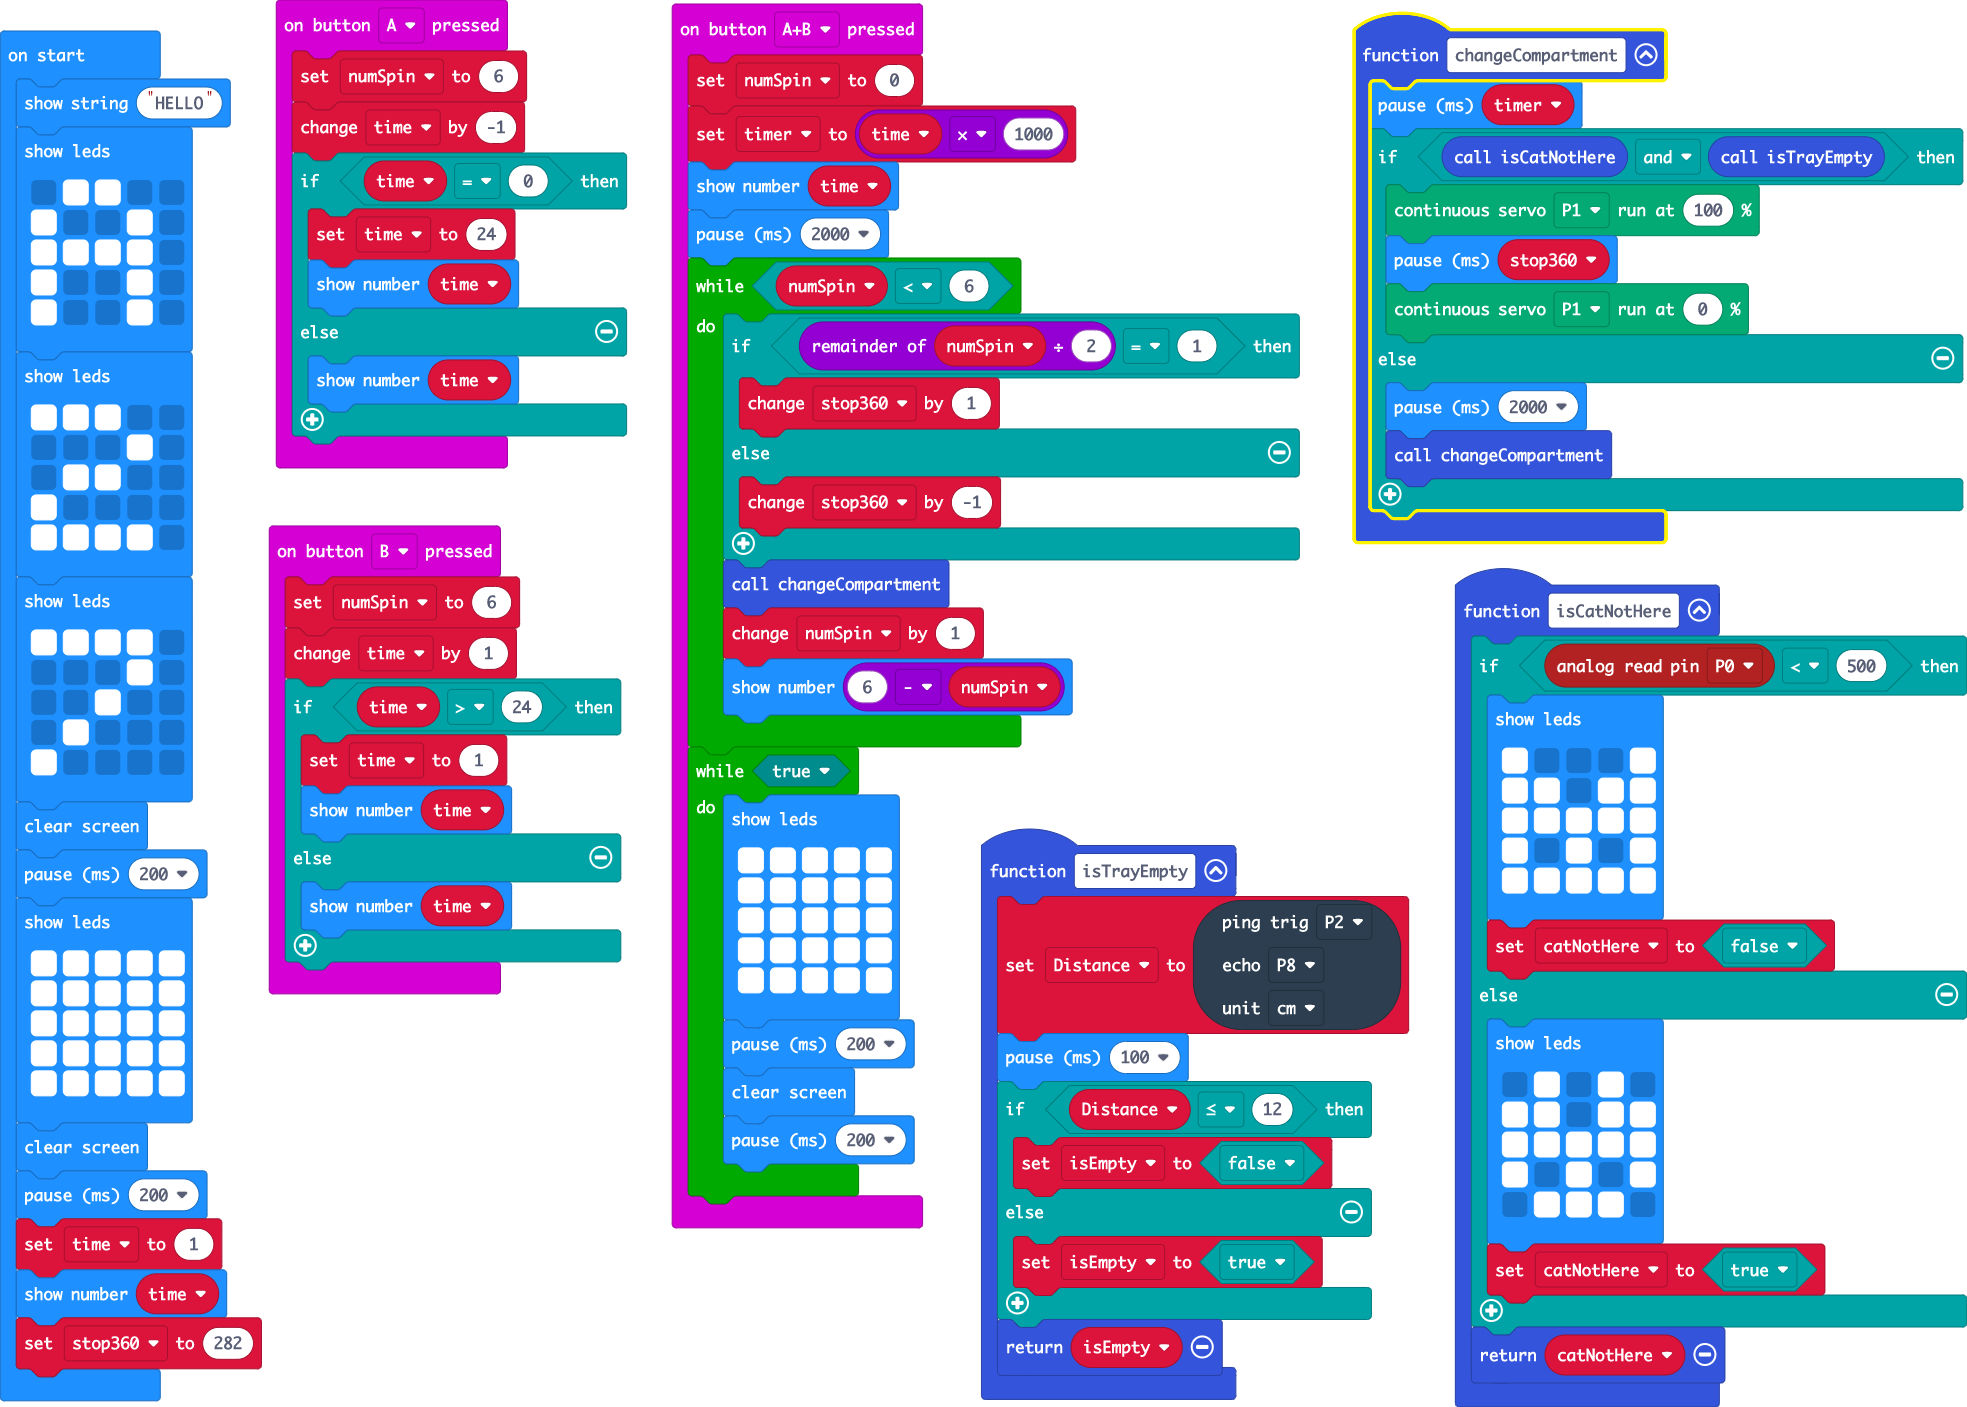
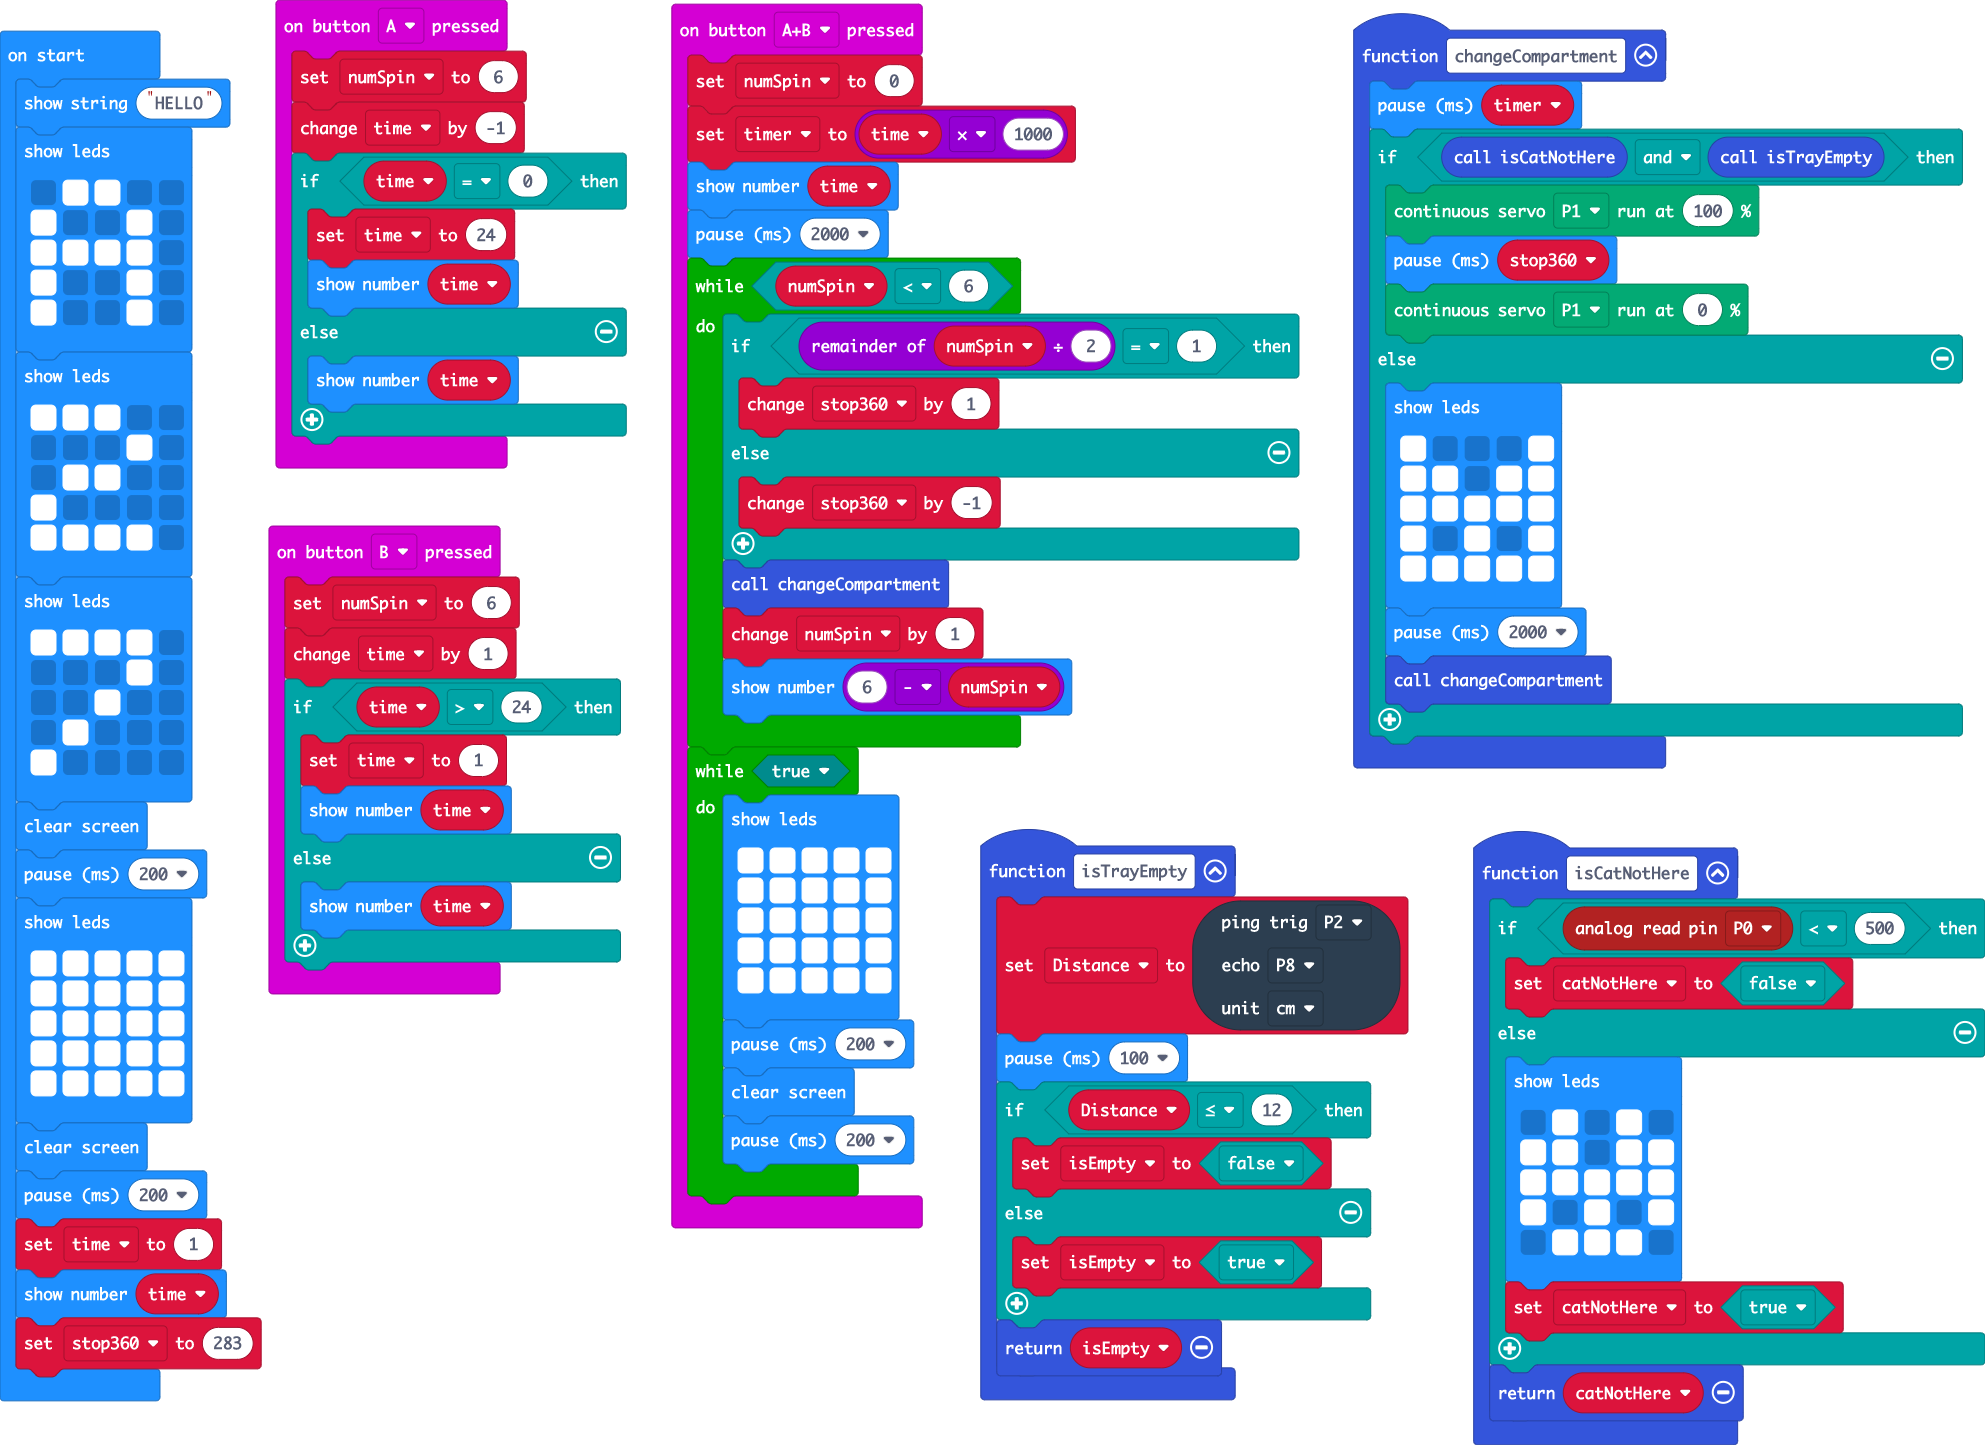
Update pxt.json, main.blocks, main.ts, main.py

diff --git a/main.ts b/main.ts
@@ -1,26 +1,23 @@
-function isCatNotHere () {
+function isCatNotHere(): boolean {
+    
     if (pins.analogReadPin(AnalogPin.P0) < 500) {
-        basic.showLeds(`
-            # . . . #
-            # # . # #
-            # # # # #
-            # . # . #
-            # # # # #
-            `)
         catNotHere = false
     } else {
         basic.showLeds(`
             . # . # .
-            # # . # #
-            # # # # #
-            # . # . #
-            . # # # .
-            `)
+                        # # . # #
+                        # # # # #
+                        # . # . #
+                        . # # # .
+        `)
         catNotHere = true
     }
+    
     return catNotHere
 }
-input.onButtonPressed(Button.A, function () {
+
+input.onButtonPressed(Button.A, function on_button_pressed_a() {
+    
     numSpin = 6
     time += -1
     if (time == 0) {
@@ -29,19 +26,30 @@ input.onButtonPressed(Button.A, function () {
     } else {
         basic.showNumber(time)
     }
+    
 })
-function changeCompartment () {
+function changeCompartment() {
     basic.pause(timer)
     if (isCatNotHere() && isTrayEmpty()) {
         servos.P1.run(100)
         basic.pause(stop360)
         servos.P1.run(0)
     } else {
+        basic.showLeds(`
+            # . . . #
+                        # # . # #
+                        # # # # #
+                        # . # . #
+                        # # # # #
+        `)
         basic.pause(2000)
         changeCompartment()
     }
+    
 }
-input.onButtonPressed(Button.AB, function () {
+
+input.onButtonPressed(Button.AB, function on_button_pressed_ab() {
+    
     numSpin = 0
     timer = time * 1000
     basic.showNumber(time)
@@ -52,6 +60,7 @@ input.onButtonPressed(Button.AB, function () {
         } else {
             stop360 += -1
         }
+        
         changeCompartment()
         numSpin += 1
         basic.showNumber(6 - numSpin)
@@ -59,17 +68,18 @@ input.onButtonPressed(Button.AB, function () {
     while (true) {
         basic.showLeds(`
             # # # # #
-            # # # # #
-            # # # # #
-            # # # # #
-            # # # # #
-            `)
+                        # # # # #
+                        # # # # #
+                        # # # # #
+                        # # # # #
+        `)
         basic.pause(200)
         basic.clearScreen()
         basic.pause(200)
     }
 })
-input.onButtonPressed(Button.B, function () {
+input.onButtonPressed(Button.B, function on_button_pressed_b() {
+    
     numSpin = 6
     time += 1
     if (time > 24) {
@@ -78,21 +88,21 @@ input.onButtonPressed(Button.B, function () {
     } else {
         basic.showNumber(time)
     }
+    
 })
-function isTrayEmpty () {
-    Distance = sonar.ping(
-    DigitalPin.P2,
-    DigitalPin.P8,
-    PingUnit.Centimeters
-    )
+function isTrayEmpty(): boolean {
+    
+    Distance = sonar.ping(DigitalPin.P2, DigitalPin.P8, PingUnit.Centimeters)
     basic.pause(100)
     if (Distance <= 12) {
         isEmpty = false
     } else {
         isEmpty = true
     }
+    
     return isEmpty
 }
+
 let isEmpty = false
 let Distance = 0
 let timer = 0
@@ -103,36 +113,36 @@ let time = 0
 basic.showString("HELLO")
 basic.showLeds(`
     . # # . .
-    # . . # .
-    # # # # .
-    # . . # .
-    # . . # .
-    `)
+        # . . # .
+        # # # # .
+        # . . # .
+        # . . # .
+`)
 basic.showLeds(`
     # # # . .
-    . . . # .
-    . # # . .
-    # . . . .
-    # # # # .
-    `)
+        . . . # .
+        . # # . .
+        # . . . .
+        # # # # .
+`)
 basic.showLeds(`
     # # # # .
-    . . . # .
-    . . # . .
-    . # . . .
-    # . . . .
-    `)
+        . . . # .
+        . . # . .
+        . # . . .
+        # . . . .
+`)
 basic.clearScreen()
 basic.pause(200)
 basic.showLeds(`
     # # # # #
-    # # # # #
-    # # # # #
-    # # # # #
-    # # # # #
-    `)
+        # # # # #
+        # # # # #
+        # # # # #
+        # # # # #
+`)
 basic.clearScreen()
 basic.pause(200)
 time = 1
 basic.showNumber(time)
-stop360 = 282
+stop360 = 283

diff --git a/main.py b/main.py
@@ -1,8 +1,15 @@
 def isCatNotHere():
     global catNotHere
-    if pins.analog_read_pin(AnalogPin.P0) > 500:
+    if pins.analog_read_pin(AnalogPin.P0) < 500:
         catNotHere = False
     else:
+        basic.show_leds("""
+            . # . # .
+                        # # . # #
+                        # # # # #
+                        # . # . #
+                        . # # # .
+        """)
         catNotHere = True
     return catNotHere
 
@@ -24,6 +31,13 @@ def changeCompartment():
         basic.pause(stop360)
         servos.P1.run(0)
     else:
+        basic.show_leds("""
+            # . . . #
+                        # # . # #
+                        # # # # #
+                        # . # . #
+                        # # # # #
+        """)
         basic.pause(2000)
         changeCompartment()
 
@@ -33,21 +47,14 @@ def on_button_pressed_ab():
     timer = time * 1000
     basic.show_number(time)
     basic.pause(2000)
-    basic.show_leds("""
-        # # # # #
-                # . . . .
-                . . . . .
-                . . . . .
-                . . . . .
-    """)
     while numSpin < 6:
         if numSpin % 2 == 1:
             stop360 += 1
         else:
             stop360 += -1
         changeCompartment()
-        led.unplot(numSpin, 0)
         numSpin += 1
+        basic.show_number(6 - numSpin)
     while True:
         basic.show_leds("""
             # # # # #
@@ -123,4 +130,4 @@ basic.clear_screen()
 basic.pause(200)
 time = 1
 basic.show_number(time)
-stop360 = 282
+stop360 = 283
